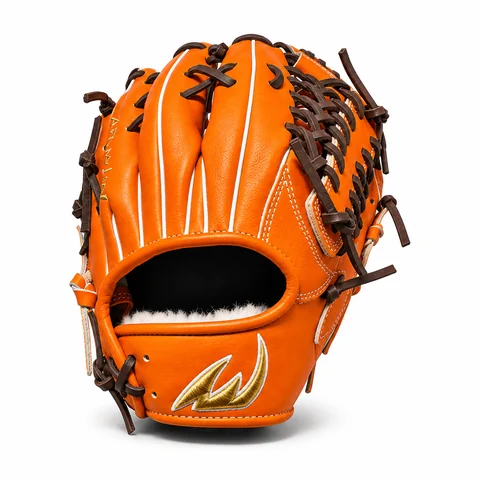
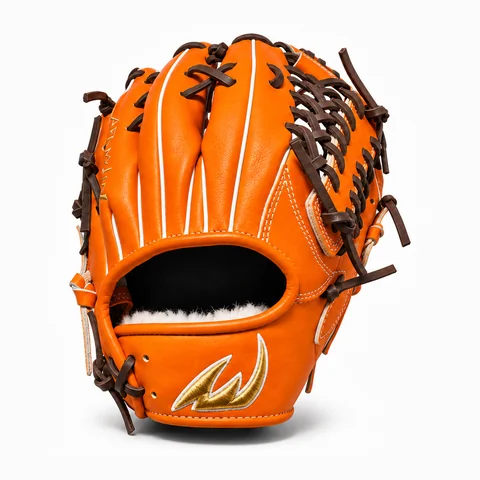
Replace OR17 back photo
Regenerate the OR17 back-view web images from the new source photo with
scripts/prepare-full-size-images.py. The new photo crops to a 1195px square,
so the full-size WebP is renamed and the catalog and test sizes are updated.

diff --git a/test/full-size.test.js b/test/full-size.test.js
@@ -111,7 +111,7 @@ function webpChunks(buffer) {
 }
 
 // The replacement OR17 sources use standard RGB without an embedded ICC profile.
-for (const [angle, side] of [['back', 1197], ['palm', 1322], ['side', 1206], ['finger-side', 1438]]) {
+for (const [angle, side] of [['back', 1195], ['palm', 1322], ['side', 1206], ['finger-side', 1438]]) {
   test(`orange ${angle} JPEG and responsive WebPs preserve source color metadata and dimensions`, () => {
     const jpeg = jpegMetadata(readFileSync(publicFile(`/images/full-size/orange-${angle}.jpg`)));
     assert.equal(jpeg.profile.length, 0);

diff --git a/src/catalog.js b/src/catalog.js
@@ -170,7 +170,7 @@ const fullSizePhotoSizes = Object.freeze({
   mint: { back: 1254, palm: 1202, side: 1254, 'finger-side': 1254 },
   black: { back: 1271, palm: 1276, side: 1442, 'finger-side': 1208 },
   camel: { back: 1198, palm: 1244, side: 612, 'finger-side': 1119 },
-  orange: { back: 1197, palm: 1322, side: 1206, 'finger-side': 1438 }
+  orange: { back: 1195, palm: 1322, side: 1206, 'finger-side': 1438 }
 });
 const fullSizePhotos = (color, tone) => fullSizeAngles.map(([angle, view]) => ({
   src: `/images/full-size/${color}-${angle}.jpg`,
